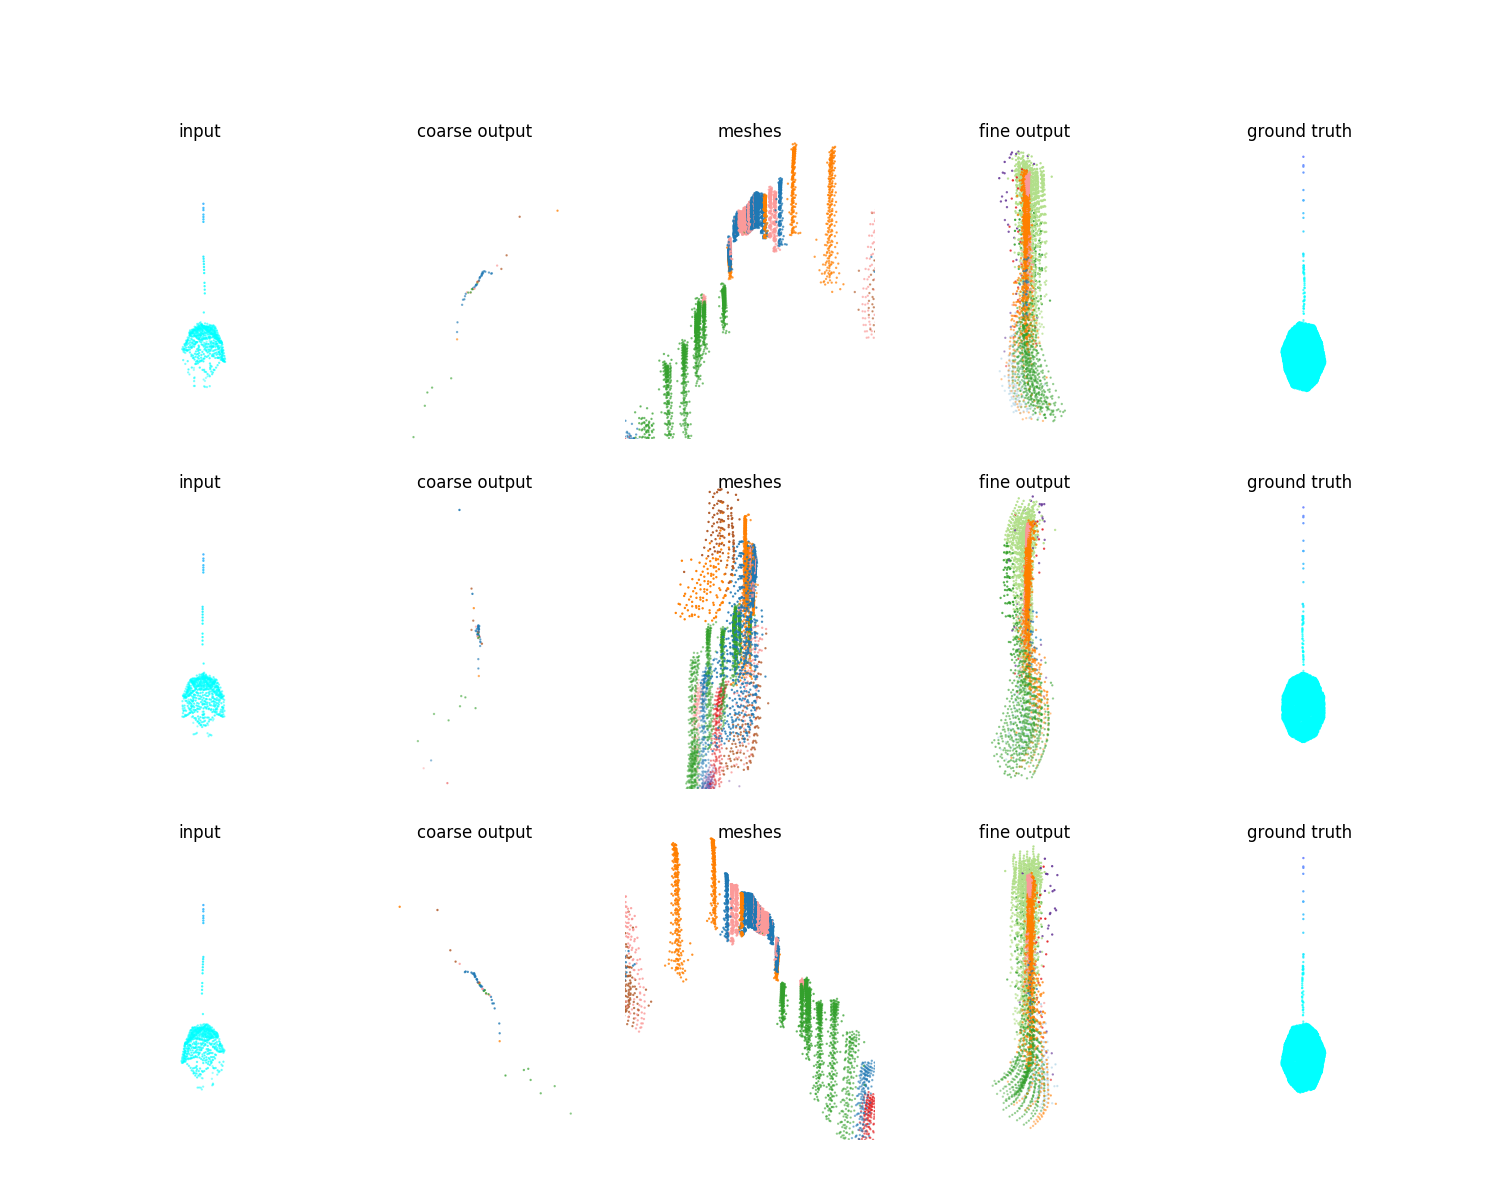
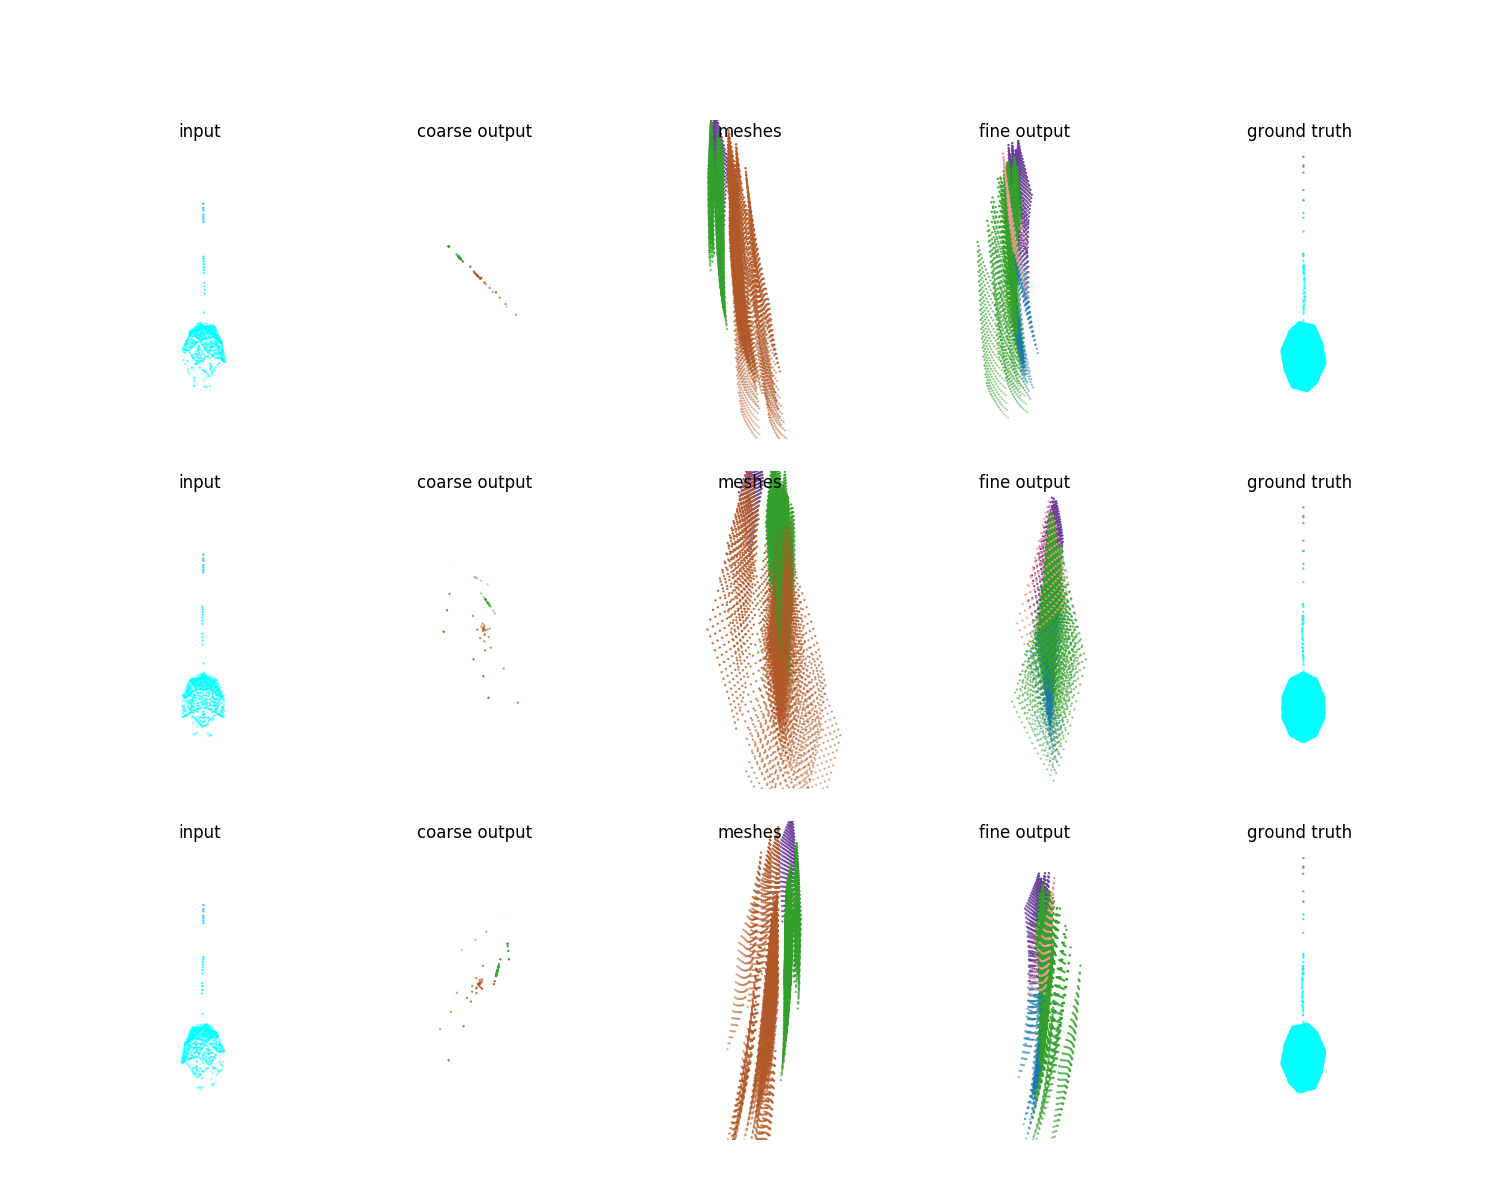
add plots

diff --git a/tf_util.py b/tf_util.py
@@ -37,33 +37,36 @@ def mlp_conv_act(inputs, layer_dims, act_dim=11, bn=None, bn_params=None):
     for i, num_out_channel in enumerate(layer_dims[:-1]):
         inputs = tf.contrib.layers.conv1d(
             inputs, num_out_channel,
-            kernel_size=6,
+            kernel_size=1,
             normalizer_fn=bn,
             normalizer_params=bn_params,
             scope='conv_%d' % i)
     feature = tf.contrib.layers.conv1d(
         inputs, layer_dims[-1],
-        kernel_size=6,
+        kernel_size=1,
         activation_fn=None,
         scope='conv_%d' % (len(layer_dims) - 1))
     act = tf.contrib.layers.conv1d(
         inputs, act_dim,
-        kernel_size=6,
+        kernel_size=1,
         activation_fn=tf.math.sigmoid,
         scope='conv_act')
-    """
-    for i in range(act_dim):
-        idx = tf.argsort(act[:,:,i], axis=1, direction='ASCENDING', stable=False, name=None)
-        import ipdb; ipdb.set_trace()
-        feat_ord = feature[idx]
-    """
     outputs = tf.concat([feature, tf.nn.softmax(act)], axis=-1)
     return outputs
 
 def point_maxpool(inputs, npts, keepdims=False):
+    # outputs = [tf.transpose(tf.math.top_k(tf.transpose(f, perm=[0, 2, 1]), k=128).values, perm=[0, 2, 1])
+    outputs = [tf.reduce_mean(tf.transpose(tf.math.top_k(tf.transpose(f, perm=[0, 2, 1]), k=32).values, perm=[0, 2, 1]), axis=1, keepdims=True)
+        for f in tf.split(inputs, npts, axis=1)]
+    """
     outputs = [tf.reduce_max(f, axis=1, keepdims=keepdims)
         for f in tf.split(inputs, npts, axis=1)]
     return tf.concat(outputs, axis=0)
+    """
+    if keepdims:
+        return tf.concat(outputs, axis=0)
+    else:
+        return tf.squeeze(tf.concat(outputs, axis=0), axis=1)
 
 
 def point_unpool(inputs, npts):

diff --git a/models/pcn_reg.py b/models/pcn_reg.py
@@ -40,11 +40,6 @@ class Model:
             coarse = mlp_conv_act(coarse, [3, 3, 3]) # + center
             # coarse *= mask
 
-        with tf.variable_scope('order', reuse=tf.AUTO_REUSE):
-            coarse += tf.expand_dims(coarse[:,:,-1]*10, -1)
-            coarse = tf.sort(coarse,axis=1,direction='ASCENDING',name=None)
-            coarse -= tf.expand_dims(coarse[:,:,-1]*10/11, -1)
-
         with tf.variable_scope('folding', reuse=tf.AUTO_REUSE):
             grid = tf.meshgrid(tf.linspace(-self.grid_scale, self.grid_scale, self.grid_size), tf.linspace(-self.grid_scale, self.grid_scale, self.grid_size))
             grid = tf.expand_dims(tf.reshape(tf.stack(grid, axis=2), [-1, 2]), 0)
@@ -111,8 +106,8 @@ class Model:
         add_train_summary('train/fine_loss', loss_fine)
         update_fine = add_valid_summary('valid/fine_loss', loss_fine)
 
-        # loss = alpha * loss_coarse + loss_fine
-        loss = loss_fine
+        loss = alpha * loss_coarse + loss_fine
+        # loss = loss_fine
         loss += 0.1*entropy
         add_train_summary('train/loss', loss)
         update_loss = add_valid_summary('valid/loss', loss)

diff --git a/models/pcn_cd.py b/models/pcn_cd.py
@@ -52,9 +52,11 @@ class Model:
 
             # fine = mlp_conv(feat, [512, 512, 3+self.channels]) + center
             fine = mlp_conv(feat, [512, 512, 3+self.channels])
+            """
             fine *= [1,1,1,0,0,0,0,0,0,0,0,0,0,0]
             fine += center
             fine -= (center * [1,1,1,0,0,0,0,0,0,0,0,0,0,0])
+            """
 
             mesh = fine + center
 
